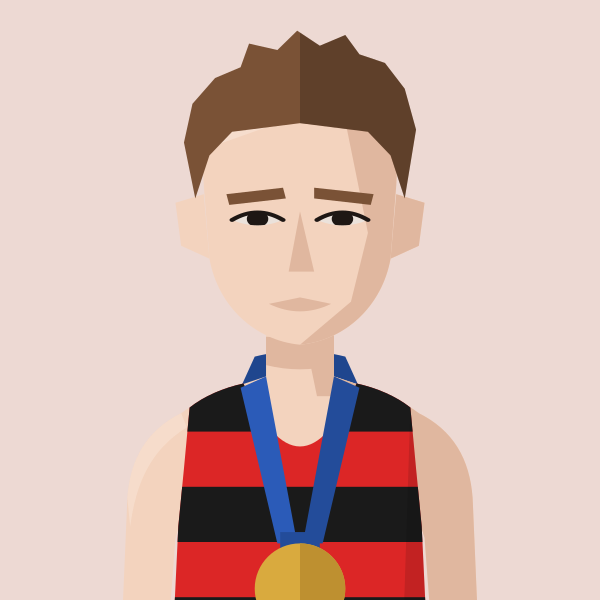
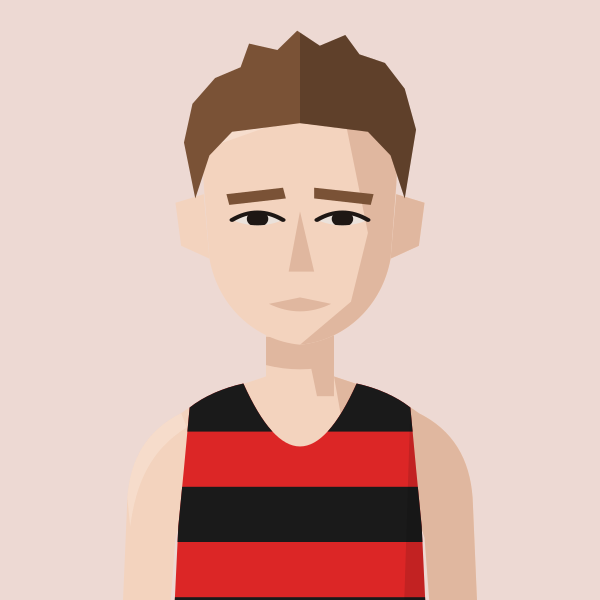
Arlo Ludewick: no medal
Claude-Session: https://claude.ai/code/session_01MgmDWhFqnSSnP4iBLKXUZC

Changed region(s): [[0.39, 0.57, 0.6, 1.0]]

diff --git a/files/index.html b/files/index.html
@@ -583,7 +583,7 @@ return m;})();
 const portraitFile=(name,club)=>{const k=normalizeNameForCompare(name||'').replace(/\s*\(([^)]*)\)$/,(m,c)=>CLUBS[c.toUpperCase()]?'':m);const a=PORTRAITS[k];if(a&&a.club===club)return a.file;const b=PORTRAITS[k+'@'+club];return b?b.file:null;};
 // Athlete header figure: superstar portrait if we have one, else a grey runner in the club vest, else the plain vest icon
 // Changes whenever any portrait changes (set by tools/build_og.py), so browsers fetch fresh images instead of old cached ones
-const PORTRAIT_V='7ebfefc3';
+const PORTRAIT_V='3dfe472c';
 const AthletePortrait=({name,club,w,fill,onClick})=>{const[failed,setFailed]=useState(false);const file=portraitFile(name,club);const src=file?`/portraits/athletes/${file}.svg?v=${PORTRAIT_V}`:PORTRAIT_CLUBS.has(club)?`/portraits/clubs/${club.replace(/\//g,'').replace(/&/g,'and')}.svg?v=${PORTRAIT_V}`:null;if(!src||failed)return<div onClick={onClick} className={onClick?'cursor-pointer':''}><ClubShield club={club} size={w}/></div>;const h=Math.round(w*148/126),ih=Math.round(w*1.4);if(fill)return<div onClick={onClick} className="cursor-pointer" style={{alignSelf:'stretch',minHeight:h,aspectRatio:'126 / 148',flexShrink:0,position:'relative',borderRadius:4,overflow:'hidden'}}><img src={src} alt={file?`Portrait of ${name.replace(/\s*\([^)]*\)$/,'')}`:`Runner in ${CLUBS[club]?.name||club} vest`} style={{position:'absolute',top:0,left:0,display:'block',width:'100%',height:'auto'}} onError={()=>setFailed(true)}/></div>;return<div style={{width:w,height:h,borderRadius:4,overflow:'hidden',flexShrink:0}}><img src={src} alt={file?`Portrait of ${name.replace(/\s*\([^)]*\)$/,'')}`:`Runner in ${CLUBS[club]?.name||club} vest`} width={w} height={ih} style={{display:'block',width:w,height:ih}} onError={()=>setFailed(true)}/></div>;};
 const getClubVestSvg=(club)=>{
   const p="M3 0 L6 0 Q7 4 10 5 Q13 4 14 0 L17 0 L17 20 L3 20 Z";

diff --git a/tools/gen_portraits.py b/tools/gen_portraits.py
@@ -799,4 +799,4 @@ save("simon-wurr", figure("THH", skin=1, hair="tuftrecede", hair_colour="#2E211B
 save("mike-cummings", figure("HHH", skin=1, hair="buzz", hair_colour="#C8B8A4", gaunt=True))
 save("tom-conlon", figure("HHH", skin=1, hair="croppeak", hair_colour="#3A2E26", greying="sides", gaunt=True, creases=True))
 save("molly-smith", figure("HHH", skin=1, hair="lowbun", hair_colour="#7A5638", scrunchie="#C8202A", thin_brows=True, necklace="#E8E2D8"))
-save("arlo-ludewick", figure("HHH", skin=1, hair="tousled", hair_colour="#7A5236", medal="gold"))
+save("arlo-ludewick", figure("HHH", skin=1, hair="tousled", hair_colour="#7A5236"))
